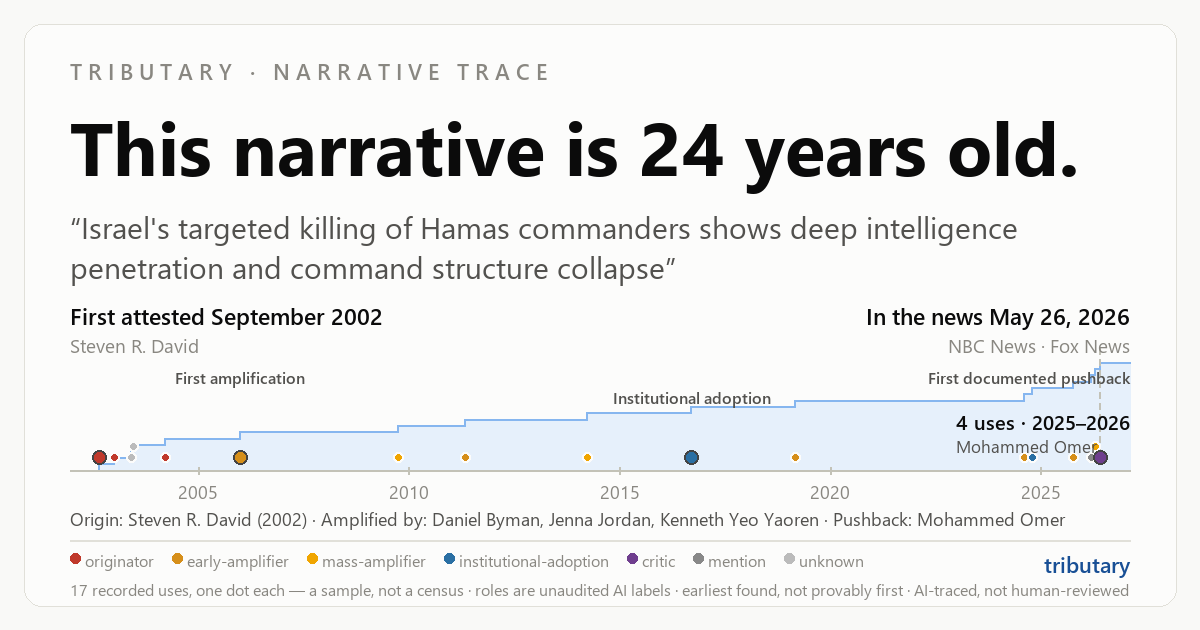
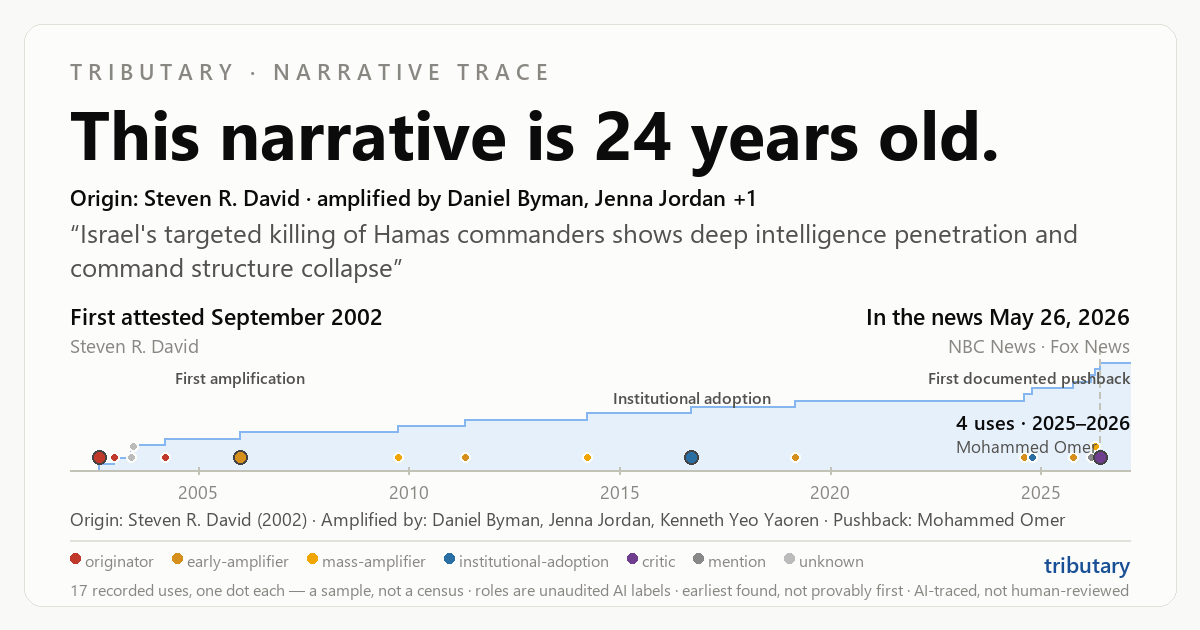
WHO-first cards (quick wins): cast deck under the age headline
Every trace card now bills the cast directly under the number:
"Origin: George W. Bush administration - amplified by Heather A.
Conley and Caroline Rohloff, ICAS +4", with the quoted phrase below.
The cast also joins the OG description so unfurls name names. Age
keeps the headline (the Gate-2 share hook of record); WHO gets the
deck. Decision Log row records the shift and defers actor pages to
their own planning decision (entity-resolution risk).

Changed region(s): [[0.0617, 0.181, 0.8942, 0.4524]]

diff --git a/gallery/cards/df7fa8c0dad4.html b/gallery/cards/df7fa8c0dad4.html
@@ -7,14 +7,14 @@
 <meta property="og:type" content="article">
 <meta property="og:site_name" content="Tributary">
 <meta property="og:title" content="This narrative is 24 years old.">
-<meta property="og:description" content="“Israel's targeted killing of Hamas commanders shows deep intelligence penetration and command structure collapse” — first attested September 2002. 17 recorded uses. Recently carried by NBC News and Fox News. Every date and source has a receipt. AI-traced, not human-reviewed.">
+<meta property="og:description" content="Origin: Steven R. David · amplified by Daniel Byman, Jenna Jordan +1. “Israel's targeted killing of Hamas commanders shows deep intelligence penetration and command structure collapse” — first attested September 2002. 17 recorded uses. Recently carried by NBC News and Fox News. Every date and source has a receipt. AI-traced, not human-reviewed.">
 <meta property="og:image" content="https://tarekelgindy.github.io/tributary/gallery/cards/df7fa8c0dad4.png">
 <meta property="og:image:width" content="1200">
 <meta property="og:image:height" content="630">
 <meta property="og:image:alt" content="This narrative is 24 years old. Timeline of 17 recorded uses from September 2002 onward. “Israel's targeted killing of Hamas commanders shows deep intelligence penetration and command structure collapse”">
 <meta property="og:url" content="https://tarekelgindy.github.io/tributary/gallery/cards/df7fa8c0dad4.html">
 <meta name="twitter:card" content="summary_large_image">
-<meta name="description" content="“Israel's targeted killing of Hamas commanders shows deep intelligence penetration and command structure collapse” — first attested September 2002. 17 recorded uses. Recently carried by NBC News and Fox News. Every date and source has a receipt. AI-traced, not human-reviewed.">
+<meta name="description" content="Origin: Steven R. David · amplified by Daniel Byman, Jenna Jordan +1. “Israel's targeted killing of Hamas commanders shows deep intelligence penetration and command structure collapse” — first attested September 2002. 17 recorded uses. Recently carried by NBC News and Fox News. Every date and source has a receipt. AI-traced, not human-reviewed.">
 <style>
   :root { color-scheme: light; }
   * { box-sizing: border-box; }
@@ -26,6 +26,7 @@
   .kicker { font-size: 0.68rem; font-weight: 600; letter-spacing: 0.1em; text-transform: uppercase;
             color: #898781; margin-bottom: 0.5rem; }
   .headline { font-size: 1.75rem; font-weight: 650; letter-spacing: -0.01em; margin: 0 0 0.15rem; }
+  .deck { font-weight: 600; font-size: 0.95rem; margin: 0 0 0.15rem; }
   .phrase { color: #52514e; font-size: 0.95rem; margin: 0 0 1.1rem; }
   .carried { color: #52514e; font-size: 0.85rem; margin: 0.5rem 0 0; }
   .who { color: #52514e; font-size: 0.86rem; margin: 0.55rem 0 0; line-height: 1.65; }
@@ -59,6 +60,7 @@
   <div class="card">
     <div class="kicker">Tributary · narrative trace</div>
     <div class="headline">This narrative is 24 years old.</div>
+    <p class="deck">Origin: Steven R. David · amplified by Daniel Byman, Jenna Jordan +1</p>
     <p class="phrase">“Israel's targeted killing of Hamas commanders shows deep intelligence penetration and command structure collapse”</p>
     <svg viewBox="0 0 760 212" role="img" aria-label="Timeline of 17 recorded uses from September 2002; In the news May 26, 2026"><style>.ms{font:600 15px system-ui;fill:#0b0b0b}.s{font:12.5px system-ui;fill:#898781}.t{font:11.5px system-ui;fill:#898781}.msl{font:600 11.5px system-ui;fill:#52514e}</style><polygon points="10.0,178.0 30.9,178.0 30.9,172.7 40.7,172.7 40.7,167.4 53.0,167.4 53.0,162.1 54.3,162.1 54.3,156.8 76.8,156.8 76.8,151.5 129.0,151.5 129.0,146.2 239.3,146.2 239.3,140.9 285.8,140.9 285.8,135.6 371.6,135.6 371.6,130.4 444.0,130.4 444.0,125.1 516.2,125.1 516.2,119.8 676.0,119.8 676.0,114.5 682.1,114.5 682.1,109.2 710.3,109.2 710.3,103.9 723.4,103.9 723.4,98.6 725.7,98.6 725.7,93.3 729.1,93.3 729.1,88.0 750.0,88.0 750.0,178.0" fill="#cde2fb" fill-opacity="0.55"/><polyline points="10.0,178.0 30.9,178.0 30.9,172.7 40.7,172.7 40.7,167.4 53.0,167.4 53.0,162.1 54.3,162.1 54.3,156.8 76.8,156.8 76.8,151.5 129.0,151.5 129.0,146.2 239.3,146.2 239.3,140.9 285.8,140.9 285.8,135.6 371.6,135.6 371.6,130.4 444.0,130.4 444.0,125.1 516.2,125.1 516.2,119.8 676.0,119.8 676.0,114.5 682.1,114.5 682.1,109.2 710.3,109.2 710.3,103.9 723.4,103.9 723.4,98.6 725.7,98.6 725.7,93.3 729.1,93.3 729.1,88.0 750.0,88.0" fill="none" stroke="#86b6ef" stroke-width="1.5"/><line x1="10" y1="178" x2="750" y2="178" stroke="#c3c2b7" stroke-width="1.5"/><line x1="99.6" y1="175" x2="99.6" y2="181" stroke="#c3c2b7"/><text x="99.6" y="195" text-anchor="middle" class="t">2005</text><line x1="246.6" y1="175" x2="246.6" y2="181" stroke="#c3c2b7"/><text x="246.6" y="195" text-anchor="middle" class="t">2010</text><line x1="393.7" y1="175" x2="393.7" y2="181" stroke="#c3c2b7"/><text x="393.7" y="195" text-anchor="middle" class="t">2015</text><line x1="540.7" y1="175" x2="540.7" y2="181" stroke="#c3c2b7"/><text x="540.7" y="195" text-anchor="middle" class="t">2020</text><line x1="687.8" y1="175" x2="687.8" y2="181" stroke="#c3c2b7"/><text x="687.8" y="195" text-anchor="middle" class="t">2025</text><line x1="729.0" y1="76" x2="729.0" y2="176" stroke="#c3c2b7" stroke-width="1.5" stroke-dasharray="5 4"/><circle cx="30.9" cy="165.0" r="6" fill="#c0392b" stroke="#444444" stroke-width="1.5"><title>2002-09-01 · Steven R. David · originator</title></circle><circle cx="40.7" cy="165.0" r="4" fill="#c0392b" stroke="#fcfcfb" stroke-width="1.5"><title>2003-01-01 · Gal Luft · originator</title></circle><circle cx="53.0" cy="165.0" r="4" fill="#bbbbbb" stroke="#fcfcfb" stroke-width="1.5"><title>2003-06-01 · Michael L. Gross · unknown</title></circle><circle cx="54.3" cy="156.0" r="4" fill="#bbbbbb" stroke="#fcfcfb" stroke-width="1.5"><title>2003-06-17 · Gil Hoffman · unknown</title></circle><circle cx="76.8" cy="165.0" r="4" fill="#c0392b" stroke="#fcfcfb" stroke-width="1.5"><title>2004-03-23 · Radio Free Europe / Radio Liberty staff · originator</title></circle><circle cx="129.0" cy="165.0" r="6" fill="#d68f1a" stroke="#444444" stroke-width="1.5"><title>First amplification — 2006-01-01 · Daniel Byman · early-amplifier</title></circle><circle cx="239.3" cy="165.0" r="4" fill="#f0a500" stroke="#fcfcfb" stroke-width="1.5"><title>2009-10-01 · Jenna Jordan · mass-amplifier</title></circle><circle cx="285.8" cy="165.0" r="4" fill="#d68f1a" stroke="#fcfcfb" stroke-width="1.5"><title>2011-05-01 · Jenna Jordan · early-amplifier</title></circle><circle cx="371.6" cy="165.0" r="4" fill="#f0a500" stroke="#fcfcfb" stroke-width="1.5"><title>2014-04-01 · Jenna Jordan · mass-amplifier</title></circle><circle cx="444.0" cy="165.0" r="6" fill="#2a6fa3" stroke="#444444" stroke-width="1.5"><title>Institutional adoption — 2016-09-17 · institutional-adoption</title></circle><circle cx="516.2" cy="165.0" r="4" fill="#d68f1a" stroke="#fcfcfb" stroke-width="1.5"><title>2019-03-01 · Kenneth Yeo Yaoren · early-amplifier</title></circle><circle cx="676.0" cy="165.0" r="4" fill="#d68f1a" stroke="#fcfcfb" stroke-width="1.5"><title>2024-08-07 · early-amplifier</title></circle><circle cx="682.1" cy="156.0" r="4" fill="#2a6fa3" stroke="#fcfcfb" stroke-width="1.5"><title>2024-10-22 · institutional-adoption</title></circle><circle cx="710.3" cy="165.0" r="4" fill="#d68f1a" stroke="#fcfcfb" stroke-width="1.5"><title>2025-10-07 · early-amplifier</title></circle><circle cx="723.4" cy="165.0" r="4" fill="#888888" stroke="#fcfcfb" stroke-width="1.5"><title>2026-03-17 · mention</title></circle><circle cx="725.7" cy="165.0" r="4" fill="#f0a500" stroke="#fcfcfb" stroke-width="1.5"><title>2026-04-15 · mass-amplifier</title></circle><circle cx="729.1" cy="156.0" r="6" fill="#6f3e8e" stroke="#444444" stroke-width="1.5"><title>First documented pushback — 2026-05-27 · Mohammed Omer · critic</title></circle><text x="129.0" y="58" text-anchor="middle" class="msl">First amplification</text><text x="444.0" y="74" text-anchor="middle" class="msl">Institutional adoption</text><text x="672.5" y="58" text-anchor="middle" class="msl">First documented pushback</text><text x="679.8" y="114.0" text-anchor="middle" style="font:600 13.5px system-ui" fill="#0b0b0b">4 uses · 2025–2026</text><text x="679.8" y="131.0" text-anchor="middle" class="s">Mohammed Omer</text><text x="10" y="20" class="ms">First attested September 2002</text><text x="10" y="38" class="s">Steven R. David</text><text x="750" y="20" text-anchor="end" class="ms">In the news May 26, 2026</text><text x="750" y="38" text-anchor="end" class="s">NBC News · Fox News</text></svg>
     <p class="who">Origin: Steven R. David (2002) · Amplified by: Daniel Byman, Jenna Jordan, Kenneth Yeo Yaoren · Pushback: Mohammed Omer</p>

diff --git a/gallery/cards/4e1fa849a987.html b/gallery/cards/4e1fa849a987.html
@@ -7,14 +7,14 @@
 <meta property="og:type" content="article">
 <meta property="og:site_name" content="Tributary">
 <meta property="og:title" content="This narrative is 17 years old.">
-<meta property="og:description" content="“Arctic strategic imperative requires deeper U.S. presence in Greenland” — first attested January 9, 2009. 15 recorded uses. Recently carried by ABC News and The Gateway Pundit. Every date and source has a receipt. AI-traced, not human-reviewed.">
+<meta property="og:description" content="Origin: George W. Bush administration · amplified by Heather A. Conley and Caroline Rohloff, ICAS +4. “Arctic strategic imperative requires deeper U.S. presence in Greenland” — first attested January 9, 2009. 15 recorded uses. Recently carried by ABC News and The Gateway Pundit. Every date and source has a receipt. AI-traced, not human-reviewed.">
 <meta property="og:image" content="https://tarekelgindy.github.io/tributary/gallery/cards/4e1fa849a987.png">
 <meta property="og:image:width" content="1200">
 <meta property="og:image:height" content="630">
 <meta property="og:image:alt" content="This narrative is 17 years old. Timeline of 15 recorded uses from January 9, 2009 onward. “Arctic strategic imperative requires deeper U.S. presence in Greenland”">
 <meta property="og:url" content="https://tarekelgindy.github.io/tributary/gallery/cards/4e1fa849a987.html">
 <meta name="twitter:card" content="summary_large_image">
-<meta name="description" content="“Arctic strategic imperative requires deeper U.S. presence in Greenland” — first attested January 9, 2009. 15 recorded uses. Recently carried by ABC News and The Gateway Pundit. Every date and source has a receipt. AI-traced, not human-reviewed.">
+<meta name="description" content="Origin: George W. Bush administration · amplified by Heather A. Conley and Caroline Rohloff, ICAS +4. “Arctic strategic imperative requires deeper U.S. presence in Greenland” — first attested January 9, 2009. 15 recorded uses. Recently carried by ABC News and The Gateway Pundit. Every date and source has a receipt. AI-traced, not human-reviewed.">
 <style>
   :root { color-scheme: light; }
   * { box-sizing: border-box; }
@@ -26,6 +26,7 @@
   .kicker { font-size: 0.68rem; font-weight: 600; letter-spacing: 0.1em; text-transform: uppercase;
             color: #898781; margin-bottom: 0.5rem; }
   .headline { font-size: 1.75rem; font-weight: 650; letter-spacing: -0.01em; margin: 0 0 0.15rem; }
+  .deck { font-weight: 600; font-size: 0.95rem; margin: 0 0 0.15rem; }
   .phrase { color: #52514e; font-size: 0.95rem; margin: 0 0 1.1rem; }
   .carried { color: #52514e; font-size: 0.85rem; margin: 0.5rem 0 0; }
   .who { color: #52514e; font-size: 0.86rem; margin: 0.55rem 0 0; line-height: 1.65; }
@@ -59,6 +60,7 @@
   <div class="card">
     <div class="kicker">Tributary · narrative trace</div>
     <div class="headline">This narrative is 17 years old.</div>
+    <p class="deck">Origin: George W. Bush administration · amplified by Heather A. Conley and Caroline Rohloff, ICAS +4</p>
     <p class="phrase">“Arctic strategic imperative requires deeper U.S. presence in Greenland”</p>
     <svg viewBox="0 0 760 212" role="img" aria-label="Timeline of 15 recorded uses from January 9, 2009; In the news May 22, 2026"><style>.ms{font:600 15px system-ui;fill:#0b0b0b}.s{font:12.5px system-ui;fill:#898781}.t{font:11.5px system-ui;fill:#898781}.msl{font:600 11.5px system-ui;fill:#52514e}</style><polygon points="10.0,178.0 30.9,178.0 30.9,172.0 297.4,172.0 297.4,166.0 352.0,166.0 352.0,160.0 425.3,160.0 425.3,154.0 446.0,154.0 446.0,148.0 448.8,148.0 448.8,142.0 457.0,142.0 457.0,136.0 484.6,136.0 484.6,130.0 551.5,130.0 551.5,124.0 584.5,124.0 584.5,118.0 655.4,118.0 655.4,112.0 668.7,112.0 668.7,106.0 675.5,106.0 675.5,100.0 713.9,100.0 713.9,94.0 714.4,94.0 714.4,88.0 750.0,88.0 750.0,178.0" fill="#cde2fb" fill-opacity="0.55"/><polyline points="10.0,178.0 30.9,178.0 30.9,172.0 297.4,172.0 297.4,166.0 352.0,166.0 352.0,160.0 425.3,160.0 425.3,154.0 446.0,154.0 446.0,148.0 448.8,148.0 448.8,142.0 457.0,142.0 457.0,136.0 484.6,136.0 484.6,130.0 551.5,130.0 551.5,124.0 584.5,124.0 584.5,118.0 655.4,118.0 655.4,112.0 668.7,112.0 668.7,106.0 675.5,106.0 675.5,100.0 713.9,100.0 713.9,94.0 714.4,94.0 714.4,88.0 750.0,88.0" fill="none" stroke="#86b6ef" stroke-width="1.5"/><line x1="10" y1="178" x2="750" y2="178" stroke="#c3c2b7" stroke-width="1.5"/><line x1="70.3" y1="175" x2="70.3" y2="181" stroke="#c3c2b7"/><text x="70.3" y="195" text-anchor="middle" class="t">2010</text><line x1="271.2" y1="175" x2="271.2" y2="181" stroke="#c3c2b7"/><text x="271.2" y="195" text-anchor="middle" class="t">2015</text><line x1="472.2" y1="175" x2="472.2" y2="181" stroke="#c3c2b7"/><text x="472.2" y="195" text-anchor="middle" class="t">2020</text><line x1="673.2" y1="175" x2="673.2" y2="181" stroke="#c3c2b7"/><text x="673.2" y="195" text-anchor="middle" class="t">2025</text><line x1="729.1" y1="76" x2="729.1" y2="176" stroke="#c3c2b7" stroke-width="1.5" stroke-dasharray="5 4"/><circle cx="30.9" cy="165.0" r="6" fill="#c0392b" stroke="#444444" stroke-width="1.5"><title>2009-01-09 · George W. Bush administration · originator</title></circle><circle cx="297.4" cy="165.0" r="6" fill="#d68f1a" stroke="#444444" stroke-width="1.5"><title>First amplification — 2015-08-26 · Heather A. Conley and Caroline Rohloff · early-amplifier</title></circle><circle cx="352.0" cy="165.0" r="6" fill="#6f3e8e" stroke="#444444" stroke-width="1.5"><title>First documented pushback — 2017-01-04 · University of Washington Arctic in Context blog · critic</title></circle><circle cx="425.3" cy="165.0" r="4" fill="#d68f1a" stroke="#fcfcfb" stroke-width="1.5"><title>2018-11-01 · ICAS · early-amplifier</title></circle><circle cx="446.0" cy="165.0" r="4" fill="#f0a500" stroke="#fcfcfb" stroke-width="1.5"><title>2019-05-06 · Washington Post staff · mass-amplifier</title></circle><circle cx="448.8" cy="156.0" r="6" fill="#2a6fa3" stroke="#444444" stroke-width="1.5"><title>Institutional adoption — 2019-06-01 · U.S. Department of Defense · institutional-adoption</title></circle><circle cx="457.0" cy="165.0" r="4" fill="#6f3e8e" stroke="#fcfcfb" stroke-width="1.5"><title>2019-08-15 · The Nation · critic</title></circle><circle cx="484.6" cy="165.0" r="4" fill="#2a6fa3" stroke="#fcfcfb" stroke-width="1.5"><title>2020-04-23 · U.S. Department of State · institutional-adoption</title></circle><circle cx="551.5" cy="165.0" r="4" fill="#6f3e8e" stroke="#fcfcfb" stroke-width="1.5"><title>2021-12-22 · Central European Journal of International and Security Studies · critic</title></circle><circle cx="584.5" cy="165.0" r="4" fill="#2a6fa3" stroke="#fcfcfb" stroke-width="1.5"><title>2022-10-17 · U.S. Department of State · institutional-adoption</title></circle><circle cx="655.4" cy="165.0" r="4" fill="#2a6fa3" stroke="#fcfcfb" stroke-width="1.5"><title>2024-07-22 · U.S. Department of Defense · institutional-adoption</title></circle><circle cx="668.7" cy="165.0" r="4" fill="#d68f1a" stroke="#fcfcfb" stroke-width="1.5"><title>2024-11-21 · War on the Rocks · early-amplifier</title></circle><circle cx="675.5" cy="165.0" r="4" fill="#d68f1a" stroke="#fcfcfb" stroke-width="1.5"><title>2025-01-22 · CSIS · early-amplifier</title></circle><circle cx="713.9" cy="165.0" r="4" fill="#888888" stroke="#fcfcfb" stroke-width="1.5"><title>2026-01-06 · Britannica editorial staff · mention</title></circle><circle cx="714.4" cy="156.0" r="4" fill="#f0a500" stroke="#fcfcfb" stroke-width="1.5"><title>2026-01-10 · NBC News · mass-amplifier</title></circle><text x="297.4" y="58" text-anchor="middle" class="msl">First amplification</text><text x="352.0" y="74" text-anchor="middle" class="msl">First documented pushback</text><text x="448.8" y="58" text-anchor="middle" class="msl">Institutional adoption</text><text x="441.2" y="114.0" text-anchor="middle" style="font:600 13.5px system-ui" fill="#0b0b0b">4 uses · 2018–2019</text><text x="441.2" y="131.0" text-anchor="middle" class="s">ICAS, Washington Post staff, U.S. Department of Def…</text><text x="10" y="20" class="ms">First attested January 9, 2009</text><text x="10" y="38" class="s">George W. Bush administration</text><text x="750" y="20" text-anchor="end" class="ms">In the news May 22, 2026</text><text x="750" y="38" text-anchor="end" class="s">ABC News · The Gateway Pundit</text></svg>
     <p class="who">Origin: George W. Bush administration (2009) · Amplified by: Heather A. Conley and Carol…, ICAS, Washington Post staff +3 · Adopted by: U.S. Department of Defense, U.S. Department of State · Pushback: University of Washington Ar…, The Nation +1</p>

diff --git a/gallery/cards/78c85bea510c.html b/gallery/cards/78c85bea510c.html
@@ -7,14 +7,14 @@
 <meta property="og:type" content="article">
 <meta property="og:site_name" content="Tributary">
 <meta property="og:title" content="This narrative is 21 months old.">
-<meta property="og:description" content="“foreign money in Trump crypto creates pay-to-play foreign policy influence” — first attested November 25, 2024. 14 recorded uses. Recently carried by CBS News and National Review. Every date and source has a receipt. AI-traced, not human-reviewed.">
+<meta property="og:description" content="Origin: CNBC · amplified by The Washington Post, Brennan Center for Justice +5. “foreign money in Trump crypto creates pay-to-play foreign policy influence” — first attested November 25, 2024. 14 recorded uses. Recently carried by CBS News and National Review. Every date and source has a receipt. AI-traced, not human-reviewed.">
 <meta property="og:image" content="https://tarekelgindy.github.io/tributary/gallery/cards/78c85bea510c.png">
 <meta property="og:image:width" content="1200">
 <meta property="og:image:height" content="630">
 <meta property="og:image:alt" content="This narrative is 21 months old. Timeline of 14 recorded uses from November 25, 2024 onward. “foreign money in Trump crypto creates pay-to-play foreign policy influence”">
 <meta property="og:url" content="https://tarekelgindy.github.io/tributary/gallery/cards/78c85bea510c.html">
 <meta name="twitter:card" content="summary_large_image">
-<meta name="description" content="“foreign money in Trump crypto creates pay-to-play foreign policy influence” — first attested November 25, 2024. 14 recorded uses. Recently carried by CBS News and National Review. Every date and source has a receipt. AI-traced, not human-reviewed.">
+<meta name="description" content="Origin: CNBC · amplified by The Washington Post, Brennan Center for Justice +5. “foreign money in Trump crypto creates pay-to-play foreign policy influence” — first attested November 25, 2024. 14 recorded uses. Recently carried by CBS News and National Review. Every date and source has a receipt. AI-traced, not human-reviewed.">
 <style>
   :root { color-scheme: light; }
   * { box-sizing: border-box; }
@@ -26,6 +26,7 @@
   .kicker { font-size: 0.68rem; font-weight: 600; letter-spacing: 0.1em; text-transform: uppercase;
             color: #898781; margin-bottom: 0.5rem; }
   .headline { font-size: 1.75rem; font-weight: 650; letter-spacing: -0.01em; margin: 0 0 0.15rem; }
+  .deck { font-weight: 600; font-size: 0.95rem; margin: 0 0 0.15rem; }
   .phrase { color: #52514e; font-size: 0.95rem; margin: 0 0 1.1rem; }
   .carried { color: #52514e; font-size: 0.85rem; margin: 0.5rem 0 0; }
   .who { color: #52514e; font-size: 0.86rem; margin: 0.55rem 0 0; line-height: 1.65; }
@@ -59,6 +60,7 @@
   <div class="card">
     <div class="kicker">Tributary · narrative trace</div>
     <div class="headline">This narrative is 21 months old.</div>
+    <p class="deck">Origin: CNBC · amplified by The Washington Post, Brennan Center for Justice +5</p>
     <p class="phrase">“foreign money in Trump crypto creates pay-to-play foreign policy influence”</p>
     <svg viewBox="0 0 760 212" role="img" aria-label="Timeline of 14 recorded uses from November 25, 2024; In the news July 2, 2026"><style>.ms{font:600 15px system-ui;fill:#0b0b0b}.s{font:12.5px system-ui;fill:#898781}.t{font:11.5px system-ui;fill:#898781}.msl{font:600 11.5px system-ui;fill:#52514e}</style><polygon points="10.0,178.0 30.9,178.0 30.9,171.6 41.5,171.6 41.5,165.1 97.6,165.1 97.6,158.7 111.6,158.7 111.6,152.3 212.2,152.3 212.2,145.9 225.1,145.9 225.1,139.4 234.4,139.4 234.4,133.0 308.1,133.0 308.1,126.6 370.1,126.6 370.1,120.1 465.9,120.1 465.9,113.7 532.6,113.7 532.6,107.3 586.4,107.3 586.4,100.9 594.6,100.9 594.6,94.4 663.6,94.4 663.6,88.0 750.0,88.0 750.0,178.0" fill="#cde2fb" fill-opacity="0.55"/><polyline points="10.0,178.0 30.9,178.0 30.9,171.6 41.5,171.6 41.5,165.1 97.6,165.1 97.6,158.7 111.6,158.7 111.6,152.3 212.2,152.3 212.2,145.9 225.1,145.9 225.1,139.4 234.4,139.4 234.4,133.0 308.1,133.0 308.1,126.6 370.1,126.6 370.1,120.1 465.9,120.1 465.9,113.7 532.6,113.7 532.6,107.3 586.4,107.3 586.4,100.9 594.6,100.9 594.6,94.4 663.6,94.4 663.6,88.0 750.0,88.0" fill="none" stroke="#86b6ef" stroke-width="1.5"/><line x1="10" y1="178" x2="750" y2="178" stroke="#c3c2b7" stroke-width="1.5"/><line x1="75.4" y1="175" x2="75.4" y2="181" stroke="#c3c2b7"/><text x="75.4" y="195" text-anchor="middle" class="t">Jan 2025</text><line x1="292.9" y1="175" x2="292.9" y2="181" stroke="#c3c2b7"/><text x="292.9" y="195" text-anchor="middle" class="t">Jul 2025</text><line x1="510.4" y1="175" x2="510.4" y2="181" stroke="#c3c2b7"/><text x="510.4" y="195" text-anchor="middle" class="t">Jan 2026</text><line x1="727.9" y1="175" x2="727.9" y2="181" stroke="#c3c2b7"/><text x="727.9" y="195" text-anchor="middle" class="t">Jul 2026</text><line x1="729.1" y1="76" x2="729.1" y2="176" stroke="#c3c2b7" stroke-width="1.5" stroke-dasharray="5 4"/><circle cx="30.9" cy="165.0" r="6" fill="#d68f1a" stroke="#444444" stroke-width="1.5"><title>2024-11-25 · CNBC · early-amplifier</title></circle><circle cx="41.5" cy="165.0" r="4" fill="#d68f1a" stroke="#fcfcfb" stroke-width="1.5"><title>2024-12-03 · The Washington Post · early-amplifier</title></circle><circle cx="97.6" cy="165.0" r="6" fill="#2a6fa3" stroke="#444444" stroke-width="1.5"><title>Institutional adoption — 2025-01-20 · U.S. House Committee on Oversight and Accountability Democrats · institutional-adoption</title></circle><circle cx="111.6" cy="165.0" r="4" fill="#d68f1a" stroke="#fcfcfb" stroke-width="1.5"><title>2025-02-01 · Brennan Center for Justice · early-amplifier</title></circle><circle cx="212.2" cy="165.0" r="4" fill="#f0a500" stroke="#fcfcfb" stroke-width="1.5"><title>2025-04-25 · CNBC staff · mass-amplifier</title></circle><circle cx="225.1" cy="165.0" r="4" fill="#2a6fa3" stroke="#fcfcfb" stroke-width="1.5"><title>2025-05-05 · Senators Jeff Merkley and Elizabeth Warren · institutional-adoption</title></circle><circle cx="234.4" cy="156.0" r="4" fill="#2a6fa3" stroke="#fcfcfb" stroke-width="1.5"><title>2025-05-13 · Senators Elizabeth Warren and Chris Van Hollen · institutional-adoption</title></circle><circle cx="308.1" cy="165.0" r="4" fill="#2a6fa3" stroke="#fcfcfb" stroke-width="1.5"><title>2025-07-14 · U.S. House Committee on Financial Services Democrats · institutional-adoption</title></circle><circle cx="370.1" cy="165.0" r="4" fill="#f0a500" stroke="#fcfcfb" stroke-width="1.5"><title>2025-09-05 · Common Cause · mass-amplifier</title></circle><circle cx="465.9" cy="165.0" r="4" fill="#f0a500" stroke="#fcfcfb" stroke-width="1.5"><title>2025-11-25 · Rep. Jamie Raskin / House Judiciary Committee Democrats · mass-amplifier</title></circle><circle cx="532.6" cy="165.0" r="4" fill="#2a6fa3" stroke="#fcfcfb" stroke-width="1.5"><title>2026-01-20 · U.S. House Committee on Oversight and Accountability Democrats · institutional-adoption</title></circle><circle cx="586.4" cy="165.0" r="4" fill="#2a6fa3" stroke="#fcfcfb" stroke-width="1.5"><title>2026-03-04 · American Bar Association · institutional-adoption</title></circle><circle cx="594.6" cy="156.0" r="4" fill="#d68f1a" stroke="#fcfcfb" stroke-width="1.5"><title>2026-03-11 · Democracy Defenders Fund / Lee A. Reiners · early-amplifier</title></circle><circle cx="663.6" cy="165.0" r="4" fill="#f0a500" stroke="#fcfcfb" stroke-width="1.5"><title>2026-05-08 · Center for American Progress · mass-amplifier</title></circle><text x="97.6" y="58" text-anchor="middle" class="msl">Institutional adoption</text><text x="223.3" y="114.0" text-anchor="middle" style="font:600 13.5px system-ui" fill="#0b0b0b">3 uses · Apr–May 2025</text><text x="223.3" y="131.0" text-anchor="middle" class="s">CNBC staff, Senators Jeff Merkley and Elizabeth War…</text><text x="10" y="20" class="ms">First attested November 25, 2024</text><text x="10" y="38" class="s">CNBC</text><text x="750" y="20" text-anchor="end" class="ms">In the news July 2, 2026</text><text x="750" y="38" text-anchor="end" class="s">CBS News · National Review</text></svg>
     <p class="who">Origin: CNBC (2024) · Amplified by: CNBC, The Washington Post, Brennan Center for Justice +5 · Adopted by: U.S. House Committee on Ove…, Senators Jeff Merkley and E… +3</p>

diff --git a/cards.py b/cards.py
@@ -336,6 +336,7 @@ def card_data(fid, subject, asof):
         "points": points,
         "spikes": spike_clusters(points),
         "who_strip": who_strip_text(dated),
+        "cast_deck": cast_deck(dated),
         "n_contrib": len(fp.get("contributions") or []),
         "roles_present": [r for r in ROLE_ORDER if any(p["role"] == r for p in points)],
         "prov_present": _prov_states(points),
@@ -539,6 +540,36 @@ def milestone_labels(dated):
     return ms
 
 
+def cast_deck(dated):
+    """The cast line that rides under the headline (Tarek, 2026-09-15: WHO
+    gets billing, not just the strip at the bottom): 'Origin: X · amplified
+    by A, B +n'. Role vocabulary is the established, footer-caveated one."""
+    name = lambda i: (i.get("author") or host_outlet(i.get("source_url"))
+                      or "").strip().split(" (")[0]
+
+    def uniq_names(items):
+        seen, out = set(), []
+        for i in items:
+            n = name(i)
+            if n and n not in seen:
+                seen.add(n)
+                out.append(n)
+        return out
+
+    origin = uniq_names([i for i in dated if (i.get("amplifier_role") or "") == "originator"]) \
+        or uniq_names(dated[:1])
+    amps = [n for n in uniq_names([i for i in dated if (i.get("amplifier_role") or "")
+                                   in ("early-amplifier", "mass-amplifier")])
+            if not origin or n != origin[0]]
+    parts = []
+    if origin:
+        parts.append(f"Origin: {origin[0]}")
+    if amps:
+        more = f" +{len(amps) - 2}" if len(amps) > 2 else ""
+        parts.append("amplified by " + ", ".join(amps[:2]) + more)
+    return " · ".join(parts)
+
+
 def who_strip_text(dated):
     """The trace's cast in one line — Origin / Amplified by / Adopted by /
     Pushback — ported from the viewer's whoStrip. Names are the product."""
@@ -707,14 +738,19 @@ def render_png(cd, out_path):
     kicker = "T R I B U T A R Y   ·   N A R R A T I V E   T R A C E"
     d.text((ML, 56), kicker, font=_font(22, "semibold"), fill=INK3)
 
-    f_head = _fit(d, cd["headline"], "bold", 74, cw)
-    d.text((ML, 96), cd["headline"], font=f_head, fill=INK1)
+    f_head = _fit(d, cd["headline"], "bold", 68, cw)
+    d.text((ML, 86), cd["headline"], font=f_head, fill=INK1)
 
-    f_phrase = _font(30)
-    py = 206
+    # the cast gets billing right under the number (WHO before the quote)
+    if cd["cast_deck"]:
+        d.text((ML, 182), _ellipsize(d, cd["cast_deck"], _font(22, "semibold"), cw),
+               font=_font(22, "semibold"), fill=INK1)
+
+    f_phrase = _font(26)
+    py = 214
     for ln in _wrap(d, "“" + cd["phrase"] + "”", f_phrase, cw, 2):
         d.text((ML, py), ln, font=f_phrase, fill=INK2)
-        py += 40
+        py += 34
 
     # --- spread over time, viewer-parity: role-colored dots, milestone
     # labels, cumulative shading (sequence, not influence) -------------------
@@ -1468,7 +1504,7 @@ def render_page(cd, out_path):
     ev = cd["event"]
     og_img = f"{SITE}gallery/cards/{fid}.png"
     og_url = f"{SITE}gallery/cards/{fid}.html"
-    desc_bits = [f"“{cd['phrase']}” — first attested {cd['first_human']}.",
+    desc_bits = ([f"{cd['cast_deck']}."] if cd["cast_deck"] else []) +         [f"“{cd['phrase']}” — first attested {cd['first_human']}.",
                  f"{cd['n_uses']} recorded uses."]
     if cd["outlets"]:
         desc_bits.append(f"Recently carried by {_names_prose(cd['outlets'][:3], with_dates=False)}.")
@@ -1534,6 +1570,7 @@ def render_page(cd, out_path):
   .kicker {{ font-size: 0.68rem; font-weight: 600; letter-spacing: 0.1em; text-transform: uppercase;
             color: #898781; margin-bottom: 0.5rem; }}
   .headline {{ font-size: 1.75rem; font-weight: 650; letter-spacing: -0.01em; margin: 0 0 0.15rem; }}
+  .deck {{ font-weight: 600; font-size: 0.95rem; margin: 0 0 0.15rem; }}
   .phrase {{ color: #52514e; font-size: 0.95rem; margin: 0 0 1.1rem; }}
   .carried {{ color: #52514e; font-size: 0.85rem; margin: 0.5rem 0 0; }}
   .who {{ color: #52514e; font-size: 0.86rem; margin: 0.55rem 0 0; line-height: 1.65; }}
@@ -1567,6 +1604,7 @@ def render_page(cd, out_path):
   <div class="card">
     <div class="kicker">Tributary · narrative trace</div>
     <div class="headline">{esc(cd["headline"])}</div>
+    {f'<p class="deck">{esc(cd["cast_deck"])}</p>' if cd["cast_deck"] else ''}
     <p class="phrase">“{esc(cd["phrase"])}”</p>
     {svg_timeline(cd)}
     {f'<p class="who">{esc(cd["who_strip"])}</p>' if cd["who_strip"] else ''}

diff --git a/MISSION_PLAN.md b/MISSION_PLAN.md
@@ -406,6 +406,7 @@ researcher data request, bridging-org pilot, or educator classroom use.
 | 2026-07-10 | Share-card presentation honesty (2a): ages floor ("is 23 years old" at 23.86); circle chips require the quote's URL to sit under the named outlet's own domain; default card set is linked-basis claim-age traces only; "presented as breaking" copy dropped for date-vs-date contrast | Round ages the way issue-02's prose does ("24 years"); chips straight from intersection quotes; cards for every traced fingerprint; keep the plan's sample copy | A floored age is true under hostile reading ("is 23 years old" holds at 23.86; "24" doesn't) — issue-02's "across 24 years" describes an attestation *span*, so the two coexist, but cards are the artifact strangers screenshot and check. A chip naming an outlet whose quote lives on another outlet's domain would repeat the Fetterman/Maher relay trap in miniature (live case: WSJ-editorial-via-Daily-Beast excluded, CBS News stands). embedding_lead attachments are candidates by 1b definition — a candidate can't headline a share artifact. "Presented as breaking" asserts intent we didn't measure; showing first-attested next to in-the-news is the same punch, structurally. |
 | 2026-07-10 | Instrument finding (counter-trace pilot): the fingerprint matcher treats a claim and its NEGATION as the same narrative — "vaccines do not cause autism" matched and served the "vaccines cause autism" fingerprint (stopword stripping drops "do not"; signature collision). Workaround: --force. Logged, not yet fixed | Fix the matcher now (negation-aware signatures); ignore | Same lesson as Gate 1's blame/consequence finding in new clothing: negation is identity-critical, surface similarity isn't identity. Risk if unfixed: the request path's match-and-serve could hand a myth's trace to someone asking about the debunk. Not fixed today because matcher changes need their own validation pass (cost/care), and the counter-trace pilot only needed --force; fix belongs with the next matcher work batch. |
 | 2026-09-13 | UNPARK the human contribution layer as Phase 2c (community layer: landing focus + contribution flow v1 + provenance-visible visuals). v1 policy: contributions named by default with anonymous allowed (the Wikipedia model); Tarek is sole approver; two contribution kinds first (`add` = earlier attestation, `confirm`/`dispute` = existing elements); no new gate — Gate 2 still closes Phase 2 on distribution evidence | Keep parked until after Gate 2 (the original park condition); open all six ContributionKinds at once; reputation/consensus review from day one | The park condition was "multiplier feedback tells us who would actually contribute" — the friends-first 2b decision supplies exactly that trusted first cohort, so the condition is met in substance a gate early, and outreach gets stronger when "is this fair?" can be followed by "you can fix it — credited." The build is cheap because the layer is dormant, not absent (models.py Contribution/Contributor/Provenance states; viewer badges light up automatically; issue templates as fallback lane). Sole-approver plus the Worker's rate caps keep the honesty rules intact: a human contribution is a claim with receipts, mechanically verified and review-stated, never automatic truth. Earlier-attestation leads because it is the flagship human-finds-what-AI-missed case (live example: the Platner trace's missing pre-July misconduct wave) and dispute/confirm is the cheapest write-back while exercising every badge state (live example: Tarek's Mayo Clinic catch, done by hand 2026-07-10). The Contributor reputation ladder already sketched in models.py stays OFF until contribution volume justifies it. |
+| 2026-09-16 | WHO-first presentation quick wins: the trace opener leads with the bolded source (date moves to the parenthesis); the WHO strip is promoted above the spread chart with click-to-highlight names (click a name, that source's dots light up); cards gain a cast deck under the age headline ("Origin: X · amplified by A, B +n") and the cast joins the OG description | Keep the date-led presentation; or jump straight to actor pages | Tarek's direction, echoing his 2026-07-05 "WHO > age" verdict: the mission is determining WHO creates and WHO amplifies, but the visuals had drifted WHEN-first — dates took the stage because role labels kept failing audits, and WHO-as-identity (names, presence, receipts — as robust as any date) was retreated from together with the fragile role layer by mistake. Age keeps the card headline (the Gate-2 share hook of record); the cast gets the deck. Actor pages (the cross-narrative actor surface) deliberately NOT slipped in: a real build whose entity-resolution errors would be misattribution — the most damaging error class — so it gets planned and sequenced against the Gate-2 clock as its own decision. |
 
 ## Feedback Log
 
